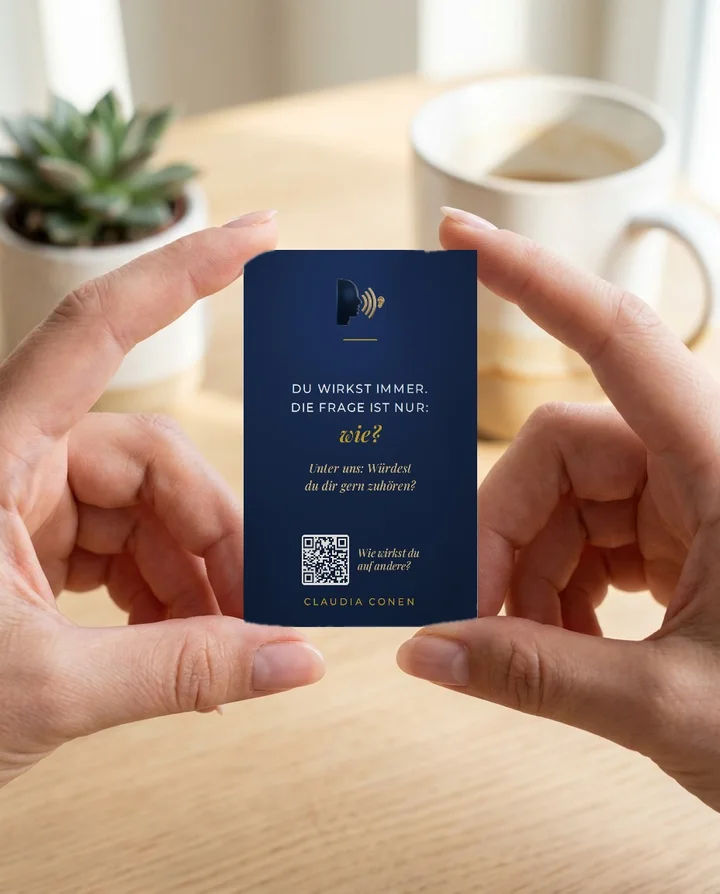
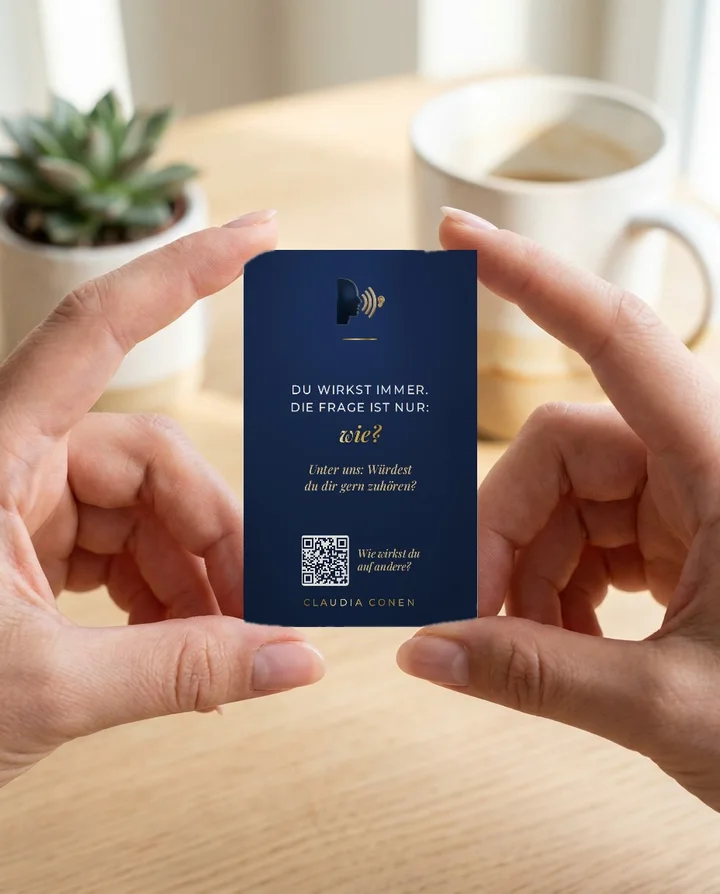
Magnet-Karten: Gold als Metallic-Verlauf (Töne der Visitenkarte)

diff --git a/magnet.html b/magnet.html
@@ -48,17 +48,19 @@ h1 em,h2 em{font:italic 600 1.06em/1 var(--ff-a);color:var(--gold-dunkel)}
  background:radial-gradient(120% 80% at 50% 18%,#22396A 0%,#1A2B4C 48%,#13233F 100%);color:#fff;text-align:center;
  display:flex;flex-direction:column;align-items:center;padding:calc(6*var(--mm)) calc(4*var(--mm)) 0}
 .mag .ic{width:calc(11.5*var(--mm));height:calc(11.5*var(--mm));object-fit:contain;flex:0 0 auto}
-.mag .strich{width:calc(8*var(--mm));height:calc(.25*var(--mm));background:#D4AF37;margin:calc(2.6*var(--mm)) 0 0;flex:0 0 auto}
+.mag .strich{width:calc(8*var(--mm));height:calc(.3*var(--mm));background:linear-gradient(105deg,#8E6A22 0%,#C9A447 18%,#FFF1C1 38%,#E4BC5D 50%,#9A7224 72%,#E9CF7E 88%,#8E6A22 100%);margin:calc(2.6*var(--mm)) 0 0;flex:0 0 auto}
 .mag .text{flex:1 1 auto;display:flex;flex-direction:column;justify-content:center;padding-bottom:calc(21*var(--mm))}
 .mag .z{margin:0;font:500 calc(2.8*var(--mm))/1.5 Montserrat,sans-serif;letter-spacing:.07em;text-transform:uppercase}
 .mag .z>b{display:block;font-weight:inherit;white-space:nowrap}
 .mag .gd{display:block;margin-top:calc(.8*var(--mm));font:italic 600 calc(5*var(--mm))/1.12 'Playfair Display',Georgia,serif;letter-spacing:0;text-transform:none;color:#D4AF37;text-wrap:balance}
+.mag .gd{background:linear-gradient(105deg,#8E6A22 0%,#C9A447 18%,#FFF1C1 38%,#E4BC5D 50%,#9A7224 72%,#E9CF7E 88%,#8E6A22 100%);-webkit-background-clip:text;background-clip:text;color:transparent;-webkit-box-decoration-break:clone;box-decoration-break:clone;filter:drop-shadow(0 calc(.15*var(--mm)) calc(.2*var(--mm)) rgba(0,0,0,.35))}
 .mag .t{margin:calc(3.2*var(--mm)) 0 0;font:italic 500 calc(2.8*var(--mm))/1.35 'Playfair Display',Georgia,serif;color:#EBD197;text-wrap:balance}
 .mag .qr{position:absolute;left:0;right:0;bottom:calc(9.5*var(--mm));display:flex;justify-content:center;align-items:center;gap:calc(2*var(--mm))}
 .mag .qr span{text-align:left;font:italic 500 calc(2.5*var(--mm))/1.25 'Playfair Display',Georgia,serif;color:#EBD197}
 .mag .qr i{display:block;background:#FDFBF7;padding:calc(.4*var(--mm));border-radius:calc(.6*var(--mm))}
 .mag .qr svg{width:calc(10.5*var(--mm));height:calc(10.5*var(--mm));display:block}
 .mag .fuss{position:absolute;left:0;right:0;bottom:calc(4.6*var(--mm));font:500 calc(2.2*var(--mm))/1 Montserrat,sans-serif;letter-spacing:.24em;color:#D4AF37}
+.mag .fuss span{background:linear-gradient(105deg,#8E6A22 0%,#C9A447 18%,#FFF1C1 38%,#E4BC5D 50%,#9A7224 72%,#E9CF7E 88%,#8E6A22 100%);-webkit-background-clip:text;background-clip:text;color:transparent}
 
 /* Produkt */
 .produkt{padding:8px 0 clamp(48px,6vw,80px)}
@@ -106,7 +108,7 @@ footer{padding:22px 0;font-size:13px;letter-spacing:.06em;border-top:1px solid v
  </div>
 </div></section>
 
-<div class="band" id="band" tabindex="0" aria-label="Alle Sprüche, laufen langsam durch. Zum Anhalten mit der Maus darüberfahren."><div class="spur"><article class="slot" data-audio="magnet-dateien/audio/01.m4a" data-nr="01"><div class="grp">Mit Herz</div><div class="mag"><img class="ic" src="magnet-dateien/schritt-5.webp" alt=""><div class="strich"></div><div class="text"><p class="z"><b>Du wirkst immer.</b><b>Die Frage ist nur:</b><span class="gd">wie?</span></p><p class="t">Unter uns: Würdest du dir gern zuhören?</p></div><div class="qr"><i><svg viewBox="0 0 29 29"><use href="#qr"/></svg></i><span>Wie wirkst du<br>auf andere?</span></div><div class="fuss">CLAUDIA CONEN</div></div></article><article class="slot" data-audio="magnet-dateien/audio/02.m4a" data-nr="02"><div class="grp">Mit Herz</div><div class="mag"><img class="ic" src="magnet-dateien/botschaft.webp" alt=""><div class="strich"></div><div class="text"><p class="z"><b>Was passiert,</b><b>wenn du mit mir</b><b>redest statt</b><b>zu scrollen?</b><span class="gd">Ich weiß es auch nicht.</span></p><p class="t">Vorsicht: Es könnte ein gutes Gespräch werden.</p></div><div class="qr"><i><svg viewBox="0 0 29 29"><use href="#qr"/></svg></i><span>Wie wirkst du<br>auf andere?</span></div><div class="fuss">CLAUDIA CONEN</div></div></article><article class="slot" data-audio="magnet-dateien/audio/03.m4a" data-nr="03"><div class="grp">Mit Herz</div><div class="mag"><img class="ic" src="magnet-dateien/schritt-1.webp" alt=""><div class="strich"></div><div class="text"><p class="z"><b>Stell dir vor,</b><b>du bleibst für immer</b><b>in meinem Kopf.</b><span class="gd">Genau so, wie du gerade redest.</span></p><p class="t">Vorsicht: Du könntest begeistern. Oder eben nicht.</p></div><div class="qr"><i><svg viewBox="0 0 29 29"><use href="#qr"/></svg></i><span>Wie wirkst du<br>auf andere?</span></div><div class="fuss">CLAUDIA CONEN</div></div></article><article class="slot" data-audio="magnet-dateien/audio/04.m4a" data-nr="04"><div class="grp">Mit Herz</div><div class="mag"><img class="ic" src="magnet-dateien/schritt-7.webp" alt=""><div class="strich"></div><div class="text"><p class="z"><b>Sei so freundlich</b><b>wie deine KI.</b><span class="gd">Dann reden wir.</span></p><p class="t">Vorsicht: Menschen merken den Unterschied.</p></div><div class="qr"><i><svg viewBox="0 0 29 29"><use href="#qr"/></svg></i><span>Wie wirkst du<br>auf andere?</span></div><div class="fuss">CLAUDIA CONEN</div></div></article><article class="slot" data-audio="magnet-dateien/audio/05.m4a" data-nr="05"><div class="grp">Mit Herz</div><div class="mag"><img class="ic" src="magnet-dateien/schritt-3.webp" alt=""><div class="strich"></div><div class="text"><p class="z"><b>Was würdest du tun,</b><b>wenn du einzigartig</b><b>auf dieser Welt wärst?</b><span class="gd">Dann mach’s doch.</span></p><p class="t">Vorsicht: Du bist es schon.</p></div><div class="qr"><i><svg viewBox="0 0 29 29"><use href="#qr"/></svg></i><span>Wie wirkst du<br>auf andere?</span></div><div class="fuss">CLAUDIA CONEN</div></div></article><article class="slot" data-audio="magnet-dateien/audio/06.m4a" data-nr="06"><div class="grp">Mit Herz</div><div class="mag"><img class="ic" src="magnet-dateien/schritt-8.webp" alt=""><div class="strich"></div><div class="text"><p class="z"><b>Menschen haben</b><span class="gd">keine Reset-Taste.</span></p><p class="t">Also: Bitte freundlich.</p></div><div class="qr"><i><svg viewBox="0 0 29 29"><use href="#qr"/></svg></i><span>Wie wirkst du<br>auf andere?</span></div><div class="fuss">CLAUDIA CONEN</div></div></article><article class="slot" data-audio="magnet-dateien/audio/07.m4a" data-nr="07"><div class="grp">Mit Biss</div><div class="mag"><img class="ic" src="magnet-dateien/geschenk.webp" alt=""><div class="strich"></div><div class="text"><p class="z"><b>Kompetenz: vorhanden.</b><b>Wirkung:</b><span class="gd">wird nachgeliefert.</span></p><p class="t">Vorsicht: Lieferzeit unbekannt.</p></div><div class="qr"><i><svg viewBox="0 0 29 29"><use href="#qr"/></svg></i><span>Wie wirkst du<br>auf andere?</span></div><div class="fuss">CLAUDIA CONEN</div></div></article><article class="slot" data-audio="magnet-dateien/audio/08.m4a" data-nr="08"><div class="grp">Mit Biss</div><div class="mag"><img class="ic" src="magnet-dateien/ki.webp" alt=""><div class="strich"></div><div class="text"><p class="z"><b>Du klingst</b><b>wie ein Prompt.</b><span class="gd">Nur nicht so freundlich.</span></p></div><div class="qr"><i><svg viewBox="0 0 29 29"><use href="#qr"/></svg></i><span>Wie wirkst du<br>auf andere?</span></div><div class="fuss">CLAUDIA CONEN</div></div></article><article class="slot" data-audio="magnet-dateien/audio/09.m4a" data-nr="09"><div class="grp">Mit Biss</div><div class="mag"><img class="ic" src="magnet-dateien/schritt-9.webp" alt=""><div class="strich"></div><div class="text"><p class="z"><b>Dein Pitch</b><b>war super.</b><span class="gd">Hat nur keiner verstanden.</span></p></div><div class="qr"><i><svg viewBox="0 0 29 29"><use href="#qr"/></svg></i><span>Wie wirkst du<br>auf andere?</span></div><div class="fuss">CLAUDIA CONEN</div></div></article><article class="slot" data-audio="magnet-dateien/audio/10.m4a" data-nr="10"><div class="grp">Mit Biss</div><div class="mag"><img class="ic" src="magnet-dateien/praesenz.webp" alt=""><div class="strich"></div><div class="text"><p class="z"><b>Kamera an,</b><b>Persönlichkeit aus?</b><span class="gd">Warum redest du jetzt so anders?</span></p></div><div class="qr"><i><svg viewBox="0 0 29 29"><use href="#qr"/></svg></i><span>Wie wirkst du<br>auf andere?</span></div><div class="fuss">CLAUDIA CONEN</div></div></article><article class="slot" data-audio="magnet-dateien/audio/01.m4a" data-nr="01" aria-hidden="true"><div class="grp">Mit Herz</div><div class="mag"><img class="ic" src="magnet-dateien/schritt-5.webp" alt=""><div class="strich"></div><div class="text"><p class="z"><b>Du wirkst immer.</b><b>Die Frage ist nur:</b><span class="gd">wie?</span></p><p class="t">Unter uns: Würdest du dir gern zuhören?</p></div><div class="qr"><i><svg viewBox="0 0 29 29"><use href="#qr"/></svg></i><span>Wie wirkst du<br>auf andere?</span></div><div class="fuss">CLAUDIA CONEN</div></div></article><article class="slot" data-audio="magnet-dateien/audio/02.m4a" data-nr="02" aria-hidden="true"><div class="grp">Mit Herz</div><div class="mag"><img class="ic" src="magnet-dateien/botschaft.webp" alt=""><div class="strich"></div><div class="text"><p class="z"><b>Was passiert,</b><b>wenn du mit mir</b><b>redest statt</b><b>zu scrollen?</b><span class="gd">Ich weiß es auch nicht.</span></p><p class="t">Vorsicht: Es könnte ein gutes Gespräch werden.</p></div><div class="qr"><i><svg viewBox="0 0 29 29"><use href="#qr"/></svg></i><span>Wie wirkst du<br>auf andere?</span></div><div class="fuss">CLAUDIA CONEN</div></div></article><article class="slot" data-audio="magnet-dateien/audio/03.m4a" data-nr="03" aria-hidden="true"><div class="grp">Mit Herz</div><div class="mag"><img class="ic" src="magnet-dateien/schritt-1.webp" alt=""><div class="strich"></div><div class="text"><p class="z"><b>Stell dir vor,</b><b>du bleibst für immer</b><b>in meinem Kopf.</b><span class="gd">Genau so, wie du gerade redest.</span></p><p class="t">Vorsicht: Du könntest begeistern. Oder eben nicht.</p></div><div class="qr"><i><svg viewBox="0 0 29 29"><use href="#qr"/></svg></i><span>Wie wirkst du<br>auf andere?</span></div><div class="fuss">CLAUDIA CONEN</div></div></article><article class="slot" data-audio="magnet-dateien/audio/04.m4a" data-nr="04" aria-hidden="true"><div class="grp">Mit Herz</div><div class="mag"><img class="ic" src="magnet-dateien/schritt-7.webp" alt=""><div class="strich"></div><div class="text"><p class="z"><b>Sei so freundlich</b><b>wie deine KI.</b><span class="gd">Dann reden wir.</span></p><p class="t">Vorsicht: Menschen merken den Unterschied.</p></div><div class="qr"><i><svg viewBox="0 0 29 29"><use href="#qr"/></svg></i><span>Wie wirkst du<br>auf andere?</span></div><div class="fuss">CLAUDIA CONEN</div></div></article><article class="slot" data-audio="magnet-dateien/audio/05.m4a" data-nr="05" aria-hidden="true"><div class="grp">Mit Herz</div><div class="mag"><img class="ic" src="magnet-dateien/schritt-3.webp" alt=""><div class="strich"></div><div class="text"><p class="z"><b>Was würdest du tun,</b><b>wenn du einzigartig</b><b>auf dieser Welt wärst?</b><span class="gd">Dann mach’s doch.</span></p><p class="t">Vorsicht: Du bist es schon.</p></div><div class="qr"><i><svg viewBox="0 0 29 29"><use href="#qr"/></svg></i><span>Wie wirkst du<br>auf andere?</span></div><div class="fuss">CLAUDIA CONEN</div></div></article><article class="slot" data-audio="magnet-dateien/audio/06.m4a" data-nr="06" aria-hidden="true"><div class="grp">Mit Herz</div><div class="mag"><img class="ic" src="magnet-dateien/schritt-8.webp" alt=""><div class="strich"></div><div class="text"><p class="z"><b>Menschen haben</b><span class="gd">keine Reset-Taste.</span></p><p class="t">Also: Bitte freundlich.</p></div><div class="qr"><i><svg viewBox="0 0 29 29"><use href="#qr"/></svg></i><span>Wie wirkst du<br>auf andere?</span></div><div class="fuss">CLAUDIA CONEN</div></div></article><article class="slot" data-audio="magnet-dateien/audio/07.m4a" data-nr="07" aria-hidden="true"><div class="grp">Mit Biss</div><div class="mag"><img class="ic" src="magnet-dateien/geschenk.webp" alt=""><div class="strich"></div><div class="text"><p class="z"><b>Kompetenz: vorhanden.</b><b>Wirkung:</b><span class="gd">wird nachgeliefert.</span></p><p class="t">Vorsicht: Lieferzeit unbekannt.</p></div><div class="qr"><i><svg viewBox="0 0 29 29"><use href="#qr"/></svg></i><span>Wie wirkst du<br>auf andere?</span></div><div class="fuss">CLAUDIA CONEN</div></div></article><article class="slot" data-audio="magnet-dateien/audio/08.m4a" data-nr="08" aria-hidden="true"><div class="grp">Mit Biss</div><div class="mag"><img class="ic" src="magnet-dateien/ki.webp" alt=""><div class="strich"></div><div class="text"><p class="z"><b>Du klingst</b><b>wie ein Prompt.</b><span class="gd">Nur nicht so freundlich.</span></p></div><div class="qr"><i><svg viewBox="0 0 29 29"><use href="#qr"/></svg></i><span>Wie wirkst du<br>auf andere?</span></div><div class="fuss">CLAUDIA CONEN</div></div></article><article class="slot" data-audio="magnet-dateien/audio/09.m4a" data-nr="09" aria-hidden="true"><div class="grp">Mit Biss</div><div class="mag"><img class="ic" src="magnet-dateien/schritt-9.webp" alt=""><div class="strich"></div><div class="text"><p class="z"><b>Dein Pitch</b><b>war super.</b><span class="gd">Hat nur keiner verstanden.</span></p></div><div class="qr"><i><svg viewBox="0 0 29 29"><use href="#qr"/></svg></i><span>Wie wirkst du<br>auf andere?</span></div><div class="fuss">CLAUDIA CONEN</div></div></article><article class="slot" data-audio="magnet-dateien/audio/10.m4a" data-nr="10" aria-hidden="true"><div class="grp">Mit Biss</div><div class="mag"><img class="ic" src="magnet-dateien/praesenz.webp" alt=""><div class="strich"></div><div class="text"><p class="z"><b>Kamera an,</b><b>Persönlichkeit aus?</b><span class="gd">Warum redest du jetzt so anders?</span></p></div><div class="qr"><i><svg viewBox="0 0 29 29"><use href="#qr"/></svg></i><span>Wie wirkst du<br>auf andere?</span></div><div class="fuss">CLAUDIA CONEN</div></div></article></div></div>
+<div class="band" id="band" tabindex="0" aria-label="Alle Sprüche, laufen langsam durch. Zum Anhalten mit der Maus darüberfahren."><div class="spur"><article class="slot" data-audio="magnet-dateien/audio/01.m4a" data-nr="01"><div class="grp">Mit Herz</div><div class="mag"><img class="ic" src="magnet-dateien/schritt-5.webp" alt=""><div class="strich"></div><div class="text"><p class="z"><b>Du wirkst immer.</b><b>Die Frage ist nur:</b><span class="gd">wie?</span></p><p class="t">Unter uns: Würdest du dir gern zuhören?</p></div><div class="qr"><i><svg viewBox="0 0 29 29"><use href="#qr"/></svg></i><span>Wie wirkst du<br>auf andere?</span></div><div class="fuss"><span>CLAUDIA CONEN</span></div></div></article><article class="slot" data-audio="magnet-dateien/audio/02.m4a" data-nr="02"><div class="grp">Mit Herz</div><div class="mag"><img class="ic" src="magnet-dateien/botschaft.webp" alt=""><div class="strich"></div><div class="text"><p class="z"><b>Was passiert,</b><b>wenn du mit mir</b><b>redest statt</b><b>zu scrollen?</b><span class="gd">Ich weiß es auch nicht.</span></p><p class="t">Vorsicht: Es könnte ein gutes Gespräch werden.</p></div><div class="qr"><i><svg viewBox="0 0 29 29"><use href="#qr"/></svg></i><span>Wie wirkst du<br>auf andere?</span></div><div class="fuss"><span>CLAUDIA CONEN</span></div></div></article><article class="slot" data-audio="magnet-dateien/audio/03.m4a" data-nr="03"><div class="grp">Mit Herz</div><div class="mag"><img class="ic" src="magnet-dateien/schritt-1.webp" alt=""><div class="strich"></div><div class="text"><p class="z"><b>Stell dir vor,</b><b>du bleibst für immer</b><b>in meinem Kopf.</b><span class="gd">Genau so, wie du gerade redest.</span></p><p class="t">Vorsicht: Du könntest begeistern. Oder eben nicht.</p></div><div class="qr"><i><svg viewBox="0 0 29 29"><use href="#qr"/></svg></i><span>Wie wirkst du<br>auf andere?</span></div><div class="fuss"><span>CLAUDIA CONEN</span></div></div></article><article class="slot" data-audio="magnet-dateien/audio/04.m4a" data-nr="04"><div class="grp">Mit Herz</div><div class="mag"><img class="ic" src="magnet-dateien/schritt-7.webp" alt=""><div class="strich"></div><div class="text"><p class="z"><b>Sei so freundlich</b><b>wie deine KI.</b><span class="gd">Dann reden wir.</span></p><p class="t">Vorsicht: Menschen merken den Unterschied.</p></div><div class="qr"><i><svg viewBox="0 0 29 29"><use href="#qr"/></svg></i><span>Wie wirkst du<br>auf andere?</span></div><div class="fuss"><span>CLAUDIA CONEN</span></div></div></article><article class="slot" data-audio="magnet-dateien/audio/05.m4a" data-nr="05"><div class="grp">Mit Herz</div><div class="mag"><img class="ic" src="magnet-dateien/schritt-3.webp" alt=""><div class="strich"></div><div class="text"><p class="z"><b>Was würdest du tun,</b><b>wenn du einzigartig</b><b>auf dieser Welt wärst?</b><span class="gd">Dann mach’s doch.</span></p><p class="t">Vorsicht: Du bist es schon.</p></div><div class="qr"><i><svg viewBox="0 0 29 29"><use href="#qr"/></svg></i><span>Wie wirkst du<br>auf andere?</span></div><div class="fuss"><span>CLAUDIA CONEN</span></div></div></article><article class="slot" data-audio="magnet-dateien/audio/06.m4a" data-nr="06"><div class="grp">Mit Herz</div><div class="mag"><img class="ic" src="magnet-dateien/schritt-8.webp" alt=""><div class="strich"></div><div class="text"><p class="z"><b>Menschen haben</b><span class="gd">keine Reset-Taste.</span></p><p class="t">Also: Bitte freundlich.</p></div><div class="qr"><i><svg viewBox="0 0 29 29"><use href="#qr"/></svg></i><span>Wie wirkst du<br>auf andere?</span></div><div class="fuss"><span>CLAUDIA CONEN</span></div></div></article><article class="slot" data-audio="magnet-dateien/audio/07.m4a" data-nr="07"><div class="grp">Mit Biss</div><div class="mag"><img class="ic" src="magnet-dateien/geschenk.webp" alt=""><div class="strich"></div><div class="text"><p class="z"><b>Kompetenz: vorhanden.</b><b>Wirkung:</b><span class="gd">wird nachgeliefert.</span></p><p class="t">Vorsicht: Lieferzeit unbekannt.</p></div><div class="qr"><i><svg viewBox="0 0 29 29"><use href="#qr"/></svg></i><span>Wie wirkst du<br>auf andere?</span></div><div class="fuss"><span>CLAUDIA CONEN</span></div></div></article><article class="slot" data-audio="magnet-dateien/audio/08.m4a" data-nr="08"><div class="grp">Mit Biss</div><div class="mag"><img class="ic" src="magnet-dateien/ki.webp" alt=""><div class="strich"></div><div class="text"><p class="z"><b>Du klingst</b><b>wie ein Prompt.</b><span class="gd">Nur nicht so freundlich.</span></p></div><div class="qr"><i><svg viewBox="0 0 29 29"><use href="#qr"/></svg></i><span>Wie wirkst du<br>auf andere?</span></div><div class="fuss"><span>CLAUDIA CONEN</span></div></div></article><article class="slot" data-audio="magnet-dateien/audio/09.m4a" data-nr="09"><div class="grp">Mit Biss</div><div class="mag"><img class="ic" src="magnet-dateien/schritt-9.webp" alt=""><div class="strich"></div><div class="text"><p class="z"><b>Dein Pitch</b><b>war super.</b><span class="gd">Hat nur keiner verstanden.</span></p></div><div class="qr"><i><svg viewBox="0 0 29 29"><use href="#qr"/></svg></i><span>Wie wirkst du<br>auf andere?</span></div><div class="fuss"><span>CLAUDIA CONEN</span></div></div></article><article class="slot" data-audio="magnet-dateien/audio/10.m4a" data-nr="10"><div class="grp">Mit Biss</div><div class="mag"><img class="ic" src="magnet-dateien/praesenz.webp" alt=""><div class="strich"></div><div class="text"><p class="z"><b>Kamera an,</b><b>Persönlichkeit aus?</b><span class="gd">Warum redest du jetzt so anders?</span></p></div><div class="qr"><i><svg viewBox="0 0 29 29"><use href="#qr"/></svg></i><span>Wie wirkst du<br>auf andere?</span></div><div class="fuss"><span>CLAUDIA CONEN</span></div></div></article><article class="slot" data-audio="magnet-dateien/audio/01.m4a" data-nr="01" aria-hidden="true"><div class="grp">Mit Herz</div><div class="mag"><img class="ic" src="magnet-dateien/schritt-5.webp" alt=""><div class="strich"></div><div class="text"><p class="z"><b>Du wirkst immer.</b><b>Die Frage ist nur:</b><span class="gd">wie?</span></p><p class="t">Unter uns: Würdest du dir gern zuhören?</p></div><div class="qr"><i><svg viewBox="0 0 29 29"><use href="#qr"/></svg></i><span>Wie wirkst du<br>auf andere?</span></div><div class="fuss"><span>CLAUDIA CONEN</span></div></div></article><article class="slot" data-audio="magnet-dateien/audio/02.m4a" data-nr="02" aria-hidden="true"><div class="grp">Mit Herz</div><div class="mag"><img class="ic" src="magnet-dateien/botschaft.webp" alt=""><div class="strich"></div><div class="text"><p class="z"><b>Was passiert,</b><b>wenn du mit mir</b><b>redest statt</b><b>zu scrollen?</b><span class="gd">Ich weiß es auch nicht.</span></p><p class="t">Vorsicht: Es könnte ein gutes Gespräch werden.</p></div><div class="qr"><i><svg viewBox="0 0 29 29"><use href="#qr"/></svg></i><span>Wie wirkst du<br>auf andere?</span></div><div class="fuss"><span>CLAUDIA CONEN</span></div></div></article><article class="slot" data-audio="magnet-dateien/audio/03.m4a" data-nr="03" aria-hidden="true"><div class="grp">Mit Herz</div><div class="mag"><img class="ic" src="magnet-dateien/schritt-1.webp" alt=""><div class="strich"></div><div class="text"><p class="z"><b>Stell dir vor,</b><b>du bleibst für immer</b><b>in meinem Kopf.</b><span class="gd">Genau so, wie du gerade redest.</span></p><p class="t">Vorsicht: Du könntest begeistern. Oder eben nicht.</p></div><div class="qr"><i><svg viewBox="0 0 29 29"><use href="#qr"/></svg></i><span>Wie wirkst du<br>auf andere?</span></div><div class="fuss"><span>CLAUDIA CONEN</span></div></div></article><article class="slot" data-audio="magnet-dateien/audio/04.m4a" data-nr="04" aria-hidden="true"><div class="grp">Mit Herz</div><div class="mag"><img class="ic" src="magnet-dateien/schritt-7.webp" alt=""><div class="strich"></div><div class="text"><p class="z"><b>Sei so freundlich</b><b>wie deine KI.</b><span class="gd">Dann reden wir.</span></p><p class="t">Vorsicht: Menschen merken den Unterschied.</p></div><div class="qr"><i><svg viewBox="0 0 29 29"><use href="#qr"/></svg></i><span>Wie wirkst du<br>auf andere?</span></div><div class="fuss"><span>CLAUDIA CONEN</span></div></div></article><article class="slot" data-audio="magnet-dateien/audio/05.m4a" data-nr="05" aria-hidden="true"><div class="grp">Mit Herz</div><div class="mag"><img class="ic" src="magnet-dateien/schritt-3.webp" alt=""><div class="strich"></div><div class="text"><p class="z"><b>Was würdest du tun,</b><b>wenn du einzigartig</b><b>auf dieser Welt wärst?</b><span class="gd">Dann mach’s doch.</span></p><p class="t">Vorsicht: Du bist es schon.</p></div><div class="qr"><i><svg viewBox="0 0 29 29"><use href="#qr"/></svg></i><span>Wie wirkst du<br>auf andere?</span></div><div class="fuss"><span>CLAUDIA CONEN</span></div></div></article><article class="slot" data-audio="magnet-dateien/audio/06.m4a" data-nr="06" aria-hidden="true"><div class="grp">Mit Herz</div><div class="mag"><img class="ic" src="magnet-dateien/schritt-8.webp" alt=""><div class="strich"></div><div class="text"><p class="z"><b>Menschen haben</b><span class="gd">keine Reset-Taste.</span></p><p class="t">Also: Bitte freundlich.</p></div><div class="qr"><i><svg viewBox="0 0 29 29"><use href="#qr"/></svg></i><span>Wie wirkst du<br>auf andere?</span></div><div class="fuss"><span>CLAUDIA CONEN</span></div></div></article><article class="slot" data-audio="magnet-dateien/audio/07.m4a" data-nr="07" aria-hidden="true"><div class="grp">Mit Biss</div><div class="mag"><img class="ic" src="magnet-dateien/geschenk.webp" alt=""><div class="strich"></div><div class="text"><p class="z"><b>Kompetenz: vorhanden.</b><b>Wirkung:</b><span class="gd">wird nachgeliefert.</span></p><p class="t">Vorsicht: Lieferzeit unbekannt.</p></div><div class="qr"><i><svg viewBox="0 0 29 29"><use href="#qr"/></svg></i><span>Wie wirkst du<br>auf andere?</span></div><div class="fuss"><span>CLAUDIA CONEN</span></div></div></article><article class="slot" data-audio="magnet-dateien/audio/08.m4a" data-nr="08" aria-hidden="true"><div class="grp">Mit Biss</div><div class="mag"><img class="ic" src="magnet-dateien/ki.webp" alt=""><div class="strich"></div><div class="text"><p class="z"><b>Du klingst</b><b>wie ein Prompt.</b><span class="gd">Nur nicht so freundlich.</span></p></div><div class="qr"><i><svg viewBox="0 0 29 29"><use href="#qr"/></svg></i><span>Wie wirkst du<br>auf andere?</span></div><div class="fuss"><span>CLAUDIA CONEN</span></div></div></article><article class="slot" data-audio="magnet-dateien/audio/09.m4a" data-nr="09" aria-hidden="true"><div class="grp">Mit Biss</div><div class="mag"><img class="ic" src="magnet-dateien/schritt-9.webp" alt=""><div class="strich"></div><div class="text"><p class="z"><b>Dein Pitch</b><b>war super.</b><span class="gd">Hat nur keiner verstanden.</span></p></div><div class="qr"><i><svg viewBox="0 0 29 29"><use href="#qr"/></svg></i><span>Wie wirkst du<br>auf andere?</span></div><div class="fuss"><span>CLAUDIA CONEN</span></div></div></article><article class="slot" data-audio="magnet-dateien/audio/10.m4a" data-nr="10" aria-hidden="true"><div class="grp">Mit Biss</div><div class="mag"><img class="ic" src="magnet-dateien/praesenz.webp" alt=""><div class="strich"></div><div class="text"><p class="z"><b>Kamera an,</b><b>Persönlichkeit aus?</b><span class="gd">Warum redest du jetzt so anders?</span></p></div><div class="qr"><i><svg viewBox="0 0 29 29"><use href="#qr"/></svg></i><span>Wie wirkst du<br>auf andere?</span></div><div class="fuss"><span>CLAUDIA CONEN</span></div></div></article></div></div>
 
 <section class="produkt"><div class="w">
  <div class="pz">
